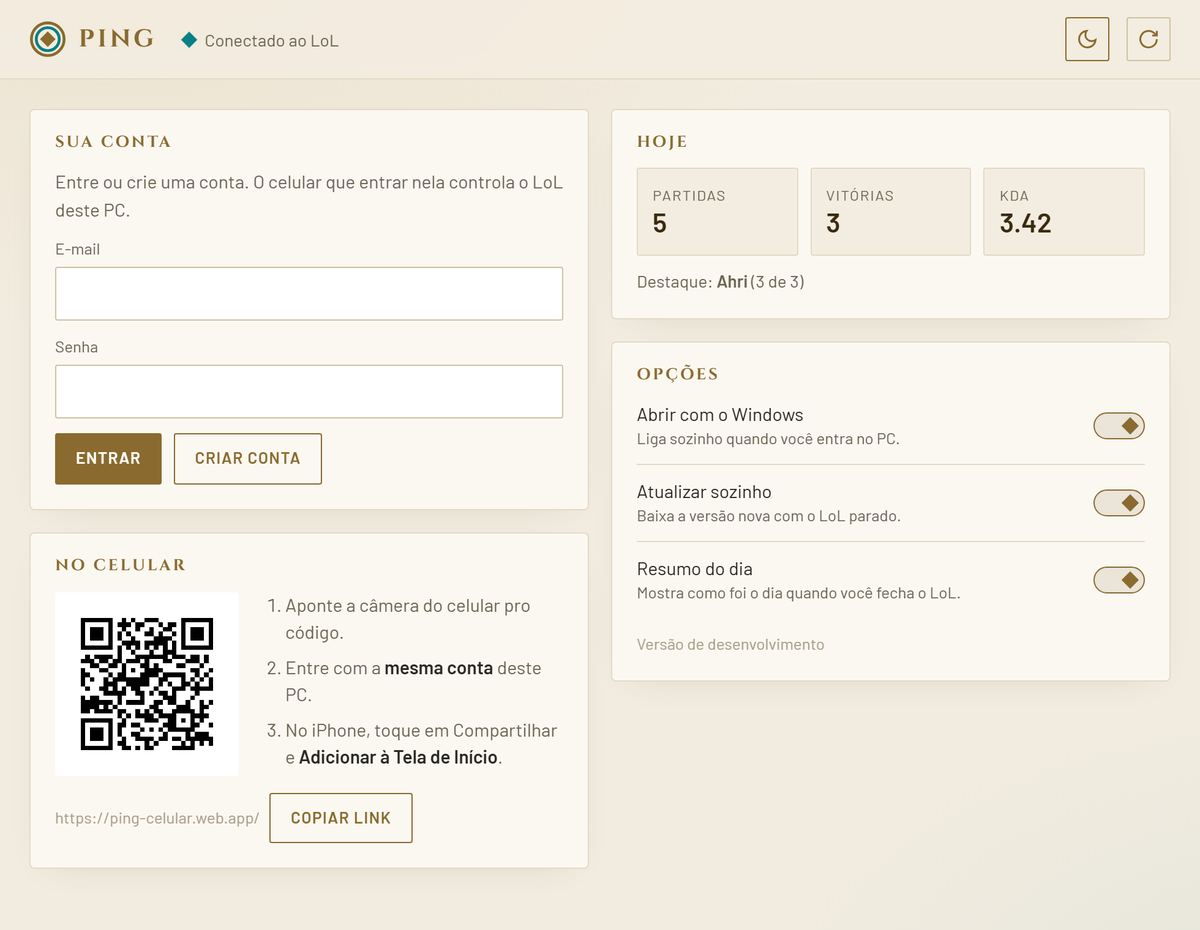
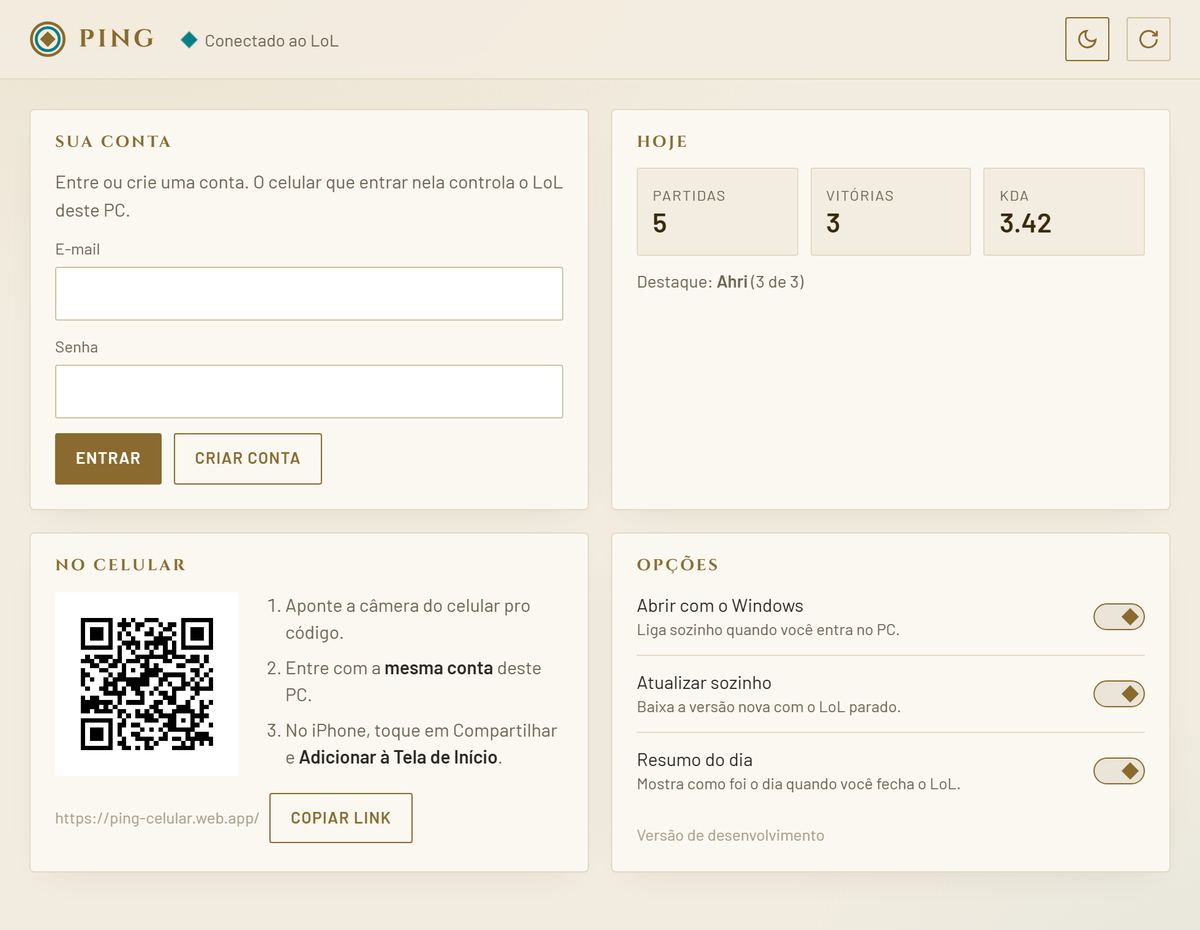
style: cards do painel com a mesma altura em cada linha

diff --git a/pc/ui/index.html b/pc/ui/index.html
@@ -105,15 +105,16 @@ header {
 @keyframes gira { to { transform: rotate(360deg); } }
 
 /* conteudo */
-main { max-width: 980px; margin: 0 auto; padding: 24px; display: grid; grid-template-columns: 1fr 1fr; gap: 18px; align-items: start; }
-.col { display: grid; gap: 18px; }
+main { max-width: 980px; margin: 0 auto; padding: 24px; display: grid; grid-template-columns: 1fr 1fr; gap: 18px; align-items: stretch; }
 .card {
   background: var(--panel); border: 1px solid var(--line); border-radius: var(--r2); padding: 20px;
   box-shadow: 0 10px 30px -18px var(--sombra);
   opacity: 0; transform: translateY(8px); animation: entra .5s var(--ease-out) forwards;
 }
-.col:nth-child(2) .card { animation-delay: .06s; }
-.card + .card { animation-delay: .12s; }
+/* grade 2x2: os dois cards de cada linha ficam da mesma altura */
+.card:nth-child(2) { animation-delay: .06s; }
+.card:nth-child(3) { animation-delay: .12s; }
+.card:nth-child(4) { animation-delay: .18s; }
 @keyframes entra { to { opacity: 1; transform: none; } }
 .card h2 { margin: 0 0 14px; font: 700 13px/1 var(--titulo); letter-spacing: .14em; text-transform: uppercase; color: var(--gold); }
 .card p { margin: 0 0 12px; color: var(--muted); }
@@ -189,6 +190,9 @@ ol.passos b { color: var(--text); font-weight: 600; }
 
 @media (max-width: 760px) {
   main { grid-template-columns: 1fr; padding: 16px; }
+  #cardCelular { order: 1; }
+  #cardHoje { order: 2; }
+  #cardOpcoes { order: 3; }
   header { padding: 12px 16px; }
   .qr { flex-direction: column; align-items: flex-start; }
   .status span { display: none; }
@@ -220,35 +224,31 @@ ol.passos b { color: var(--text); font-weight: 600; }
 </header>
 
 <main>
-  <div class="col">
-    <section class="card" id="cardConta">
-      <h2>Sua conta</h2>
-      <div id="conta"></div>
-    </section>
-    <section class="card">
-      <h2>No celular</h2>
-      <div class="qr">
-        <div class="codigo" id="qr"></div>
-        <ol class="passos">
-          <li>Aponte a câmera do celular pro código.</li>
-          <li>Entre com a <b>mesma conta</b> deste PC.</li>
-          <li>No iPhone, toque em Compartilhar e <b>Adicionar à Tela de Início</b>.</li>
-        </ol>
-      </div>
-      <div class="link"><span id="link"></span><button class="btn" id="copiar">Copiar link</button></div>
-    </section>
-  </div>
-  <div class="col">
-    <section class="card">
-      <h2>Hoje</h2>
-      <div id="hoje"><p class="vazio">Carregando...</p></div>
-    </section>
-    <section class="card">
-      <h2>Opções</h2>
-      <div id="opcoes"></div>
-      <div class="versao" id="versao"></div>
-    </section>
-  </div>
+  <section class="card" id="cardConta">
+    <h2>Sua conta</h2>
+    <div id="conta"></div>
+  </section>
+  <section class="card" id="cardHoje">
+    <h2>Hoje</h2>
+    <div id="hoje"><p class="vazio">Carregando...</p></div>
+  </section>
+  <section class="card" id="cardCelular">
+    <h2>No celular</h2>
+    <div class="qr">
+      <div class="codigo" id="qr"></div>
+      <ol class="passos">
+        <li>Aponte a câmera do celular pro código.</li>
+        <li>Entre com a <b>mesma conta</b> deste PC.</li>
+        <li>No iPhone, toque em Compartilhar e <b>Adicionar à Tela de Início</b>.</li>
+      </ol>
+    </div>
+    <div class="link"><span id="link"></span><button class="btn" id="copiar">Copiar link</button></div>
+  </section>
+  <section class="card" id="cardOpcoes">
+    <h2>Opções</h2>
+    <div id="opcoes"></div>
+    <div class="versao" id="versao"></div>
+  </section>
 </main>
 
 <div id="toast" role="status" aria-live="polite"></div>
